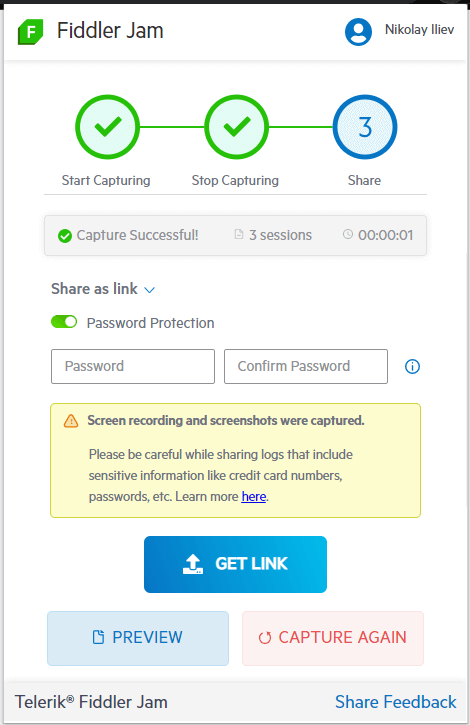
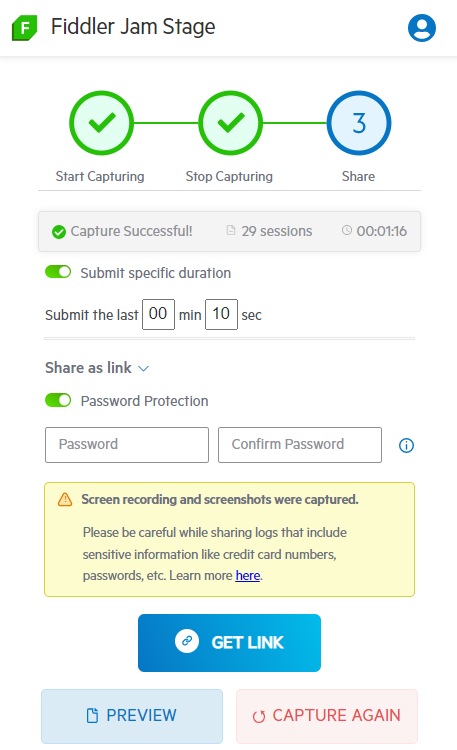
DOM video sliding recording

diff --git a/fj-extension/link-options.md b/fj-extension/link-options.md
@@ -1,31 +1,41 @@
 ---
-title: Log Sharing Options
-description: "Learn how to share the Chrome Extension recorded logs with a generated link or with specific Fiddler Jam portal users, and use optional password protection."
+title: Log Submit Options
+description: "Learn how to share the Chrome Extension recorded logs with a generated link or specific Fiddler Jam portal users, and use optional password protection."
 slug: fj-link-options
 publish: true
 position: 50
 previous_url: /extension/link-options, /get-started/link-options
 ---
 
-# Log Sharing Options
+# Log Submit Options
 
-The Fiddler Jam Chrome Extension enables you to submit the recorded logs either by sharing the generated link for that log, by sharing the log with specific people. or by directly uploading the recorded log to a workspace (available only for authenticated users).
+The Fiddler Jam Chrome Extension enables you to submit the recorded logs either by sharing the generated link for that log, by sharing the log with specific people, or by directly uploading the recorded log to a workspace (available only for authenticated users). All alternatives allow you to provide additional security by setting a password.
 
-All alternatives allow you to provide additional security through setting a password.
+When creating a log containing DOM video recording, you can also choose to upload only a specific video portion.
+
+
+## Submitting Video Duration
+
+When recording a video in [DOM format]({%slug fj-capture-options%}#pixel-perfect-and-dom-formats), Fiddler Jam provides the option to submit only a portion of the recorded video. This way, you can protect sensitive data (like entered personal data, passwords, etc.) AND to avoid lengthy videos being uploaded to your organizational workspace (which could take more time to upload and spend networking resources).
+
+Use the **Submit specific duration** option and set the minutes and seconds you would like to submit (leaves the last part of the video recording and crops the beginning).
+
+![Submitting video portion](../images/ext/ext-images/extension-link-options-video-duration.png)
 
 ## Sharing the Generated Link
 
-Link sharing allows [registered Fiddler Jam Portal users]({%slug fj-users%}#portal-users) with that link to open the recorded log.
+Use the **Share as Link** option to generate a link that can be shared with [registered Fiddler Jam Portal users]({%slug fj-users%}#portal-users) and is not accessible to anonymous users (not public). After using the **Share as Link** option, the captured log (alongside all active capturing options like screenshots, video recordings, console logs, etc.) is uploaded to the Fiddler Jam cloud space. 
 
-Additionally, you can protect the log with a password. Only Fiddler Jam Portal users who know the password will have access to the recorded information.
+Additionally, you can protect the log with a password. Only Fiddler Jam Portal users who know the password can access the recorded information.
 
 ![Link generation options](../images/ext/ext-images/extension-link-options.png)
 
 ## Sharing the Log with Specific People
 
-To share the recorded log with specific Fiddler Jam Portal users, you need to explicitly list their account emails. Only users from that email list will be able to open the recorded log.
 
-Additionally, you can protect the log with a password. Only the specified Fiddler Jam Portal users who know the password will have access to the recorded information.
+Use the **Sharing the Log with Specific People** option to share the recorded log with specific Fiddler Jam Portal users. Only [registered Fiddler Jam Portal users]({%slug fj-users%}#portal-users) from the particular email list will be able to open the recorded log. After using the **Sharing the Log with Specific People** option, the captured log (alongside all active capturing options like screenshots, video recordings, console logs, etc.) is uploaded to the Fiddler Jam cloud space.
+
+Additionally, you can protect the log with a password. Only the specified Fiddler Jam Portal users who know the password will access the recorded information.
 
 ![Share with specific people](../images/ext/ext-images/extension-link-options-sharing-via-emails.png)
 
@@ -39,7 +49,7 @@ The option **Upload to a workspace** is available only for authenticated users t
 
 ## Password Protection for Recorded Logs
 
-All recorded logs can be protected with a password, no matter if they are shared with a link , with specific users, or if they are directly uploaded to an organizational workspace.
+All recorded logs can be protected with a password, whether shared with a link, specific users or directly uploaded to a company workspace.
 
 To create a password for your recorded log, use the **Password protection** switch. The password requires you to consider that it has to:
 

diff --git a/fj-extension/capture-options.md b/fj-extension/capture-options.md
@@ -34,21 +34,23 @@ The **Reload page on start** option will force reload the entry point URL when t
 
 ## Capturing Videos
 
-The **Capture video** option allows you to capture video recordings from the inspected Google Chrome tab. Only the tab from which the Fiddler Jam log recording has started will be recorded, and subsequently opened tabs won't be present in the video recording. The default video format is **Pixel-perfect** but the option can be combined with the [**Use DOM Video** option](#using-dom-video) to enable **DOM** video recording. [Learn more about the differences between both formats here...](#pixel-perfect-vs-dom-format)
+The **Capture video** option allows you to capture video recordings from the inspected Google Chrome tab. Only the tab from which the Fiddler Jam log recording has started will be recorded, and subsequently opened tabs won't be present in the video recording. The default video format is **Pixel-perfect** but the option can be combined with the [**Use DOM Video** option](#using-dom-video) to enable **DOM** video recording. [Learn more about the differences between both formats here...](#pixel-perfect-and-dom-formats)
 
 Consider the following when using the related video switches from the advanced options.
 
-- **Capture video**: ON and **Use DOM video**: OFF&mdash;Records Pixel-perfect video
-- **Capture video**: ON and **Use DOM video**: ON&mdash;Records Dom video 
-- **Capture video**: OFF and **Use DOM video**: OFF&mdash;No video recording
-- **Capture video**: OFF and **Use DOM video**; ON&mdash;No video recording
+- **Capture video**: ON and **Use DOM video**: OFF&mdash;Records Pixel-perfect video (default state).
+- **Capture video**: ON and **Use DOM video**: ON&mdash;Records Dom video.
+- **Capture video**: OFF and **Use DOM video**: OFF&mdash;No video recording.
+- **Capture video**: OFF and **Use DOM video**; ON&mdash;No video recording.
 
 
-### Pixel-perfect vs DOM format
+### Pixel-Perfect and DOM formats
 
-- **"DOM":** The DOM video recording produces a video that records all user activity except one from iframes. The main benefits of this recording type are the excellent browser compatibility, it supports masking sensitive data, and it doesn't require explicit permission from the user (the video recording starts immediately after calling the start() method).
+Fiddler Jam supports two conceptually different video recording formats known as **DOM** and **pixel-perfect** (enabled by default). Both have their advantages and limitations, as listed below;
 
-- **"Pixel-perfect"**: The pixel-perfect video uses the native browser recording options. It produces a video that records all user activities and can be set to record different tabs, the whole screen, etc. It will also record video from nested iframes. The pixel-perfect recording requires explicit permission from the end-user (through a series of native popups).
+- **"DOM":** The DOM video recording produces a video that records all user activity except one from iframes. The main benefits of this recording type are the excellent browser compatibility, it supports masking sensitive data, and it doesn't require explicit permission from the user (the video recording starts immediately after the capturing starts). The user can choose and [submit only a portion of the recorded DOM video]({%slug fj-link-options%}#submitting-video-duration) so that you won't have to submit lengthy videos to your workspace or to protect sensitive data.
+
+- **"Pixel-perfect"**: The pixel-perfect video uses the native browser recording options. It produces a video that records all user activities and can be set to record different tabs, the whole screen, etc. It will also record video from nested iframes. The pixel-perfect recording requires explicit permission from the end-user (through a series of native popups after the capturing starts).
 
 ### Submitted Videos
 

diff --git a/security.md b/security.md
@@ -26,6 +26,10 @@ When capturing and sharing Fiddler Jam logs, consider the availability of the fo
 
     ![Fiddler Jam screenshot and video warning](./images/ext/ext-images/extension-start-capturing-warning.png)
 
+- When a Jam logs contains video recording in **pixel-perfect** format it will be upload in its whole.
+
+- When a Jam logs contains video recording in **DOM** format the user (that uses the Jam extension) can decide which part of the video recording to upload by [submitting a portion of the recording]({%slug fj-link-options%}#submitting-video-duration).
+
 - The Fiddler Jam Chrome Extension captures the content of the Chrome tab in which the capturing was initialized, of all the tabs and windows opened from that particular tab, and all tabs and windows opened from them.
 
     All tabs and windows with active capturing will have the red dot indication in the Fiddler Jam Chrome Extension and a notification banner at the top of the page reading "Fiddler Jam started debugging this browser". If the red dot and the warning banner are not visible, the Fiddler Jam Chrome Extension is not capturing this browser tab.
